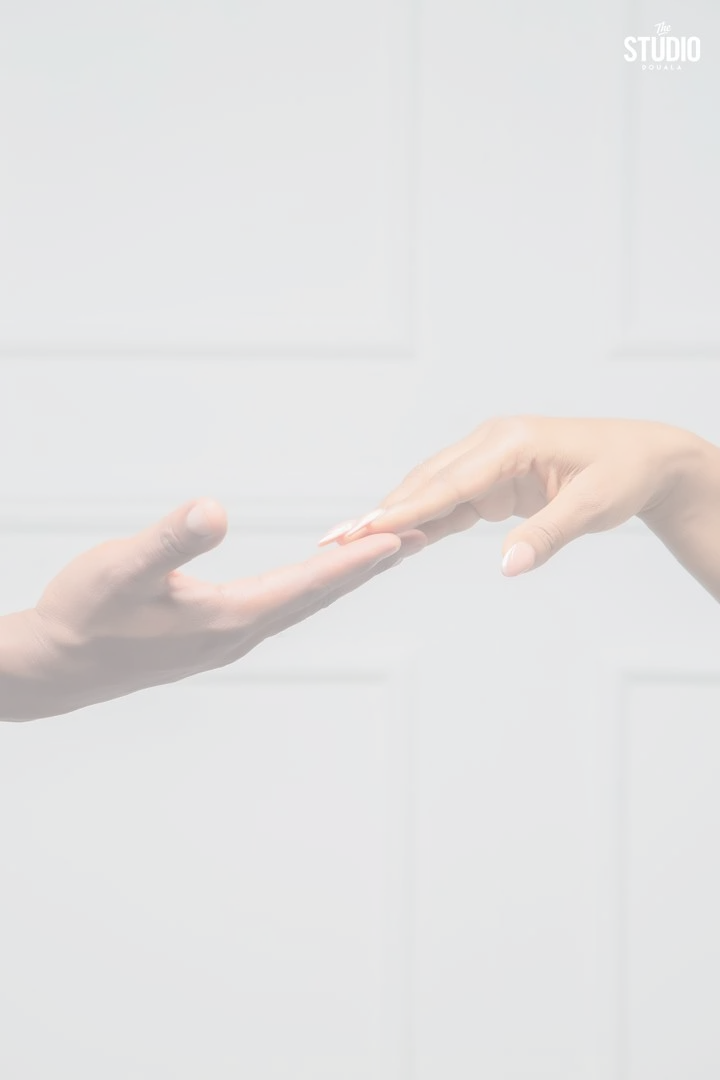
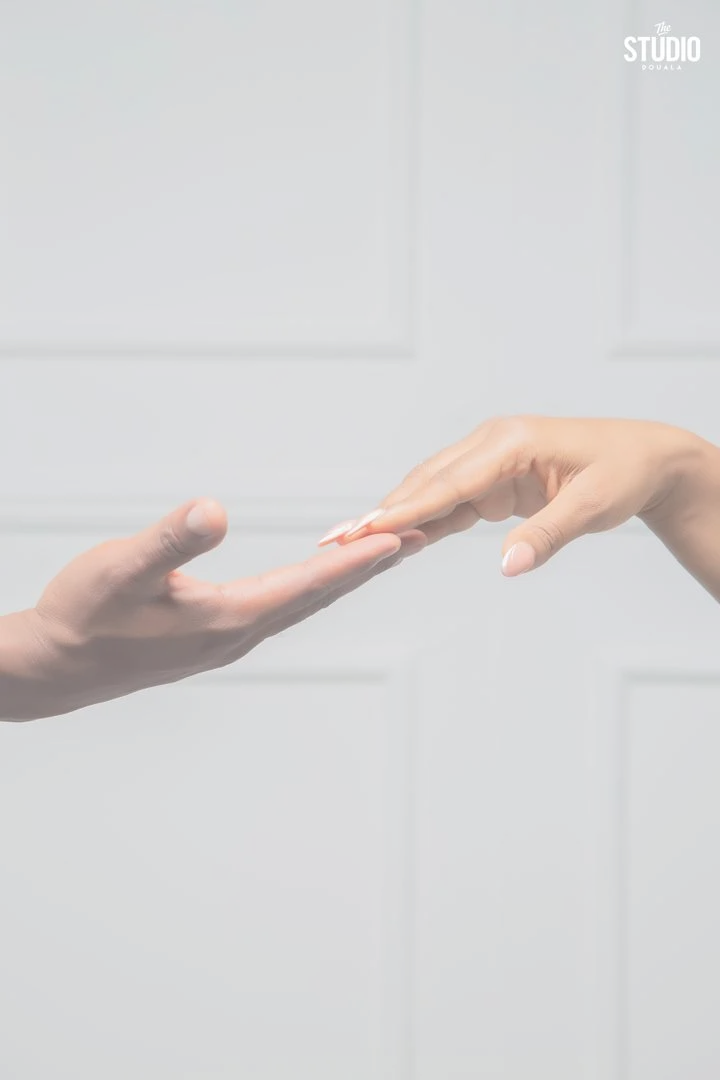
Fond des mains des maries a 60 % d'opacite

Changed region(s): [[0.0, 0.3667, 1.0, 0.6722]]

diff --git a/invitation-landing.html b/invitation-landing.html
@@ -62,7 +62,7 @@ header{position:fixed;top:0;left:0;right:0;z-index:50;backdrop-filter:blur(12px)
 /* ——— HERO : comme la couverture du modèle ——— */
 .hero{position:relative;isolation:isolate;overflow:clip;min-height:100svh;display:flex;flex-direction:column;justify-content:center;align-items:center;text-align:center;
   padding:104px 20px 72px;
-  /* mains des mariés (opacité 40 % intégrée à l'image) sur le fond fleuri */
+  /* mains des mariés (opacité 60 % intégrée à l'image) sur le fond fleuri */
   background:url("assets/invitation/fond-mains.webp") center / cover no-repeat,#fdfaf6 url("assets/invitation/fond-fleuri.jpg") center / cover no-repeat}
 .hero::before{content:"";position:absolute;inset:0;z-index:-1;pointer-events:none;
   background:radial-gradient(56% 50% at 50% 46%, rgba(253,250,246,.9) 0%, rgba(253,250,246,.55) 60%, transparent 100%)}

diff --git a/index.html b/index.html
@@ -30,7 +30,7 @@
     display: flex; flex-direction: column; align-items: center; justify-content: center;
     gap: clamp(14px, 3.4vh, 34px);
     padding: clamp(28px, 6vh, 64px) 0 clamp(18px, 4vh, 40px);
-    /* les mains des mariés (opacité 40 % intégrée à l'image) sur le fond fleuri */
+    /* les mains des mariés (opacité 60 % intégrée à l'image) sur le fond fleuri */
     background: url("assets/invitation/fond-mains.webp") center / cover no-repeat,
                 #fdfaf6 url("assets/invitation/fond-fleuri.jpg") center / cover no-repeat;
     overflow: hidden;
